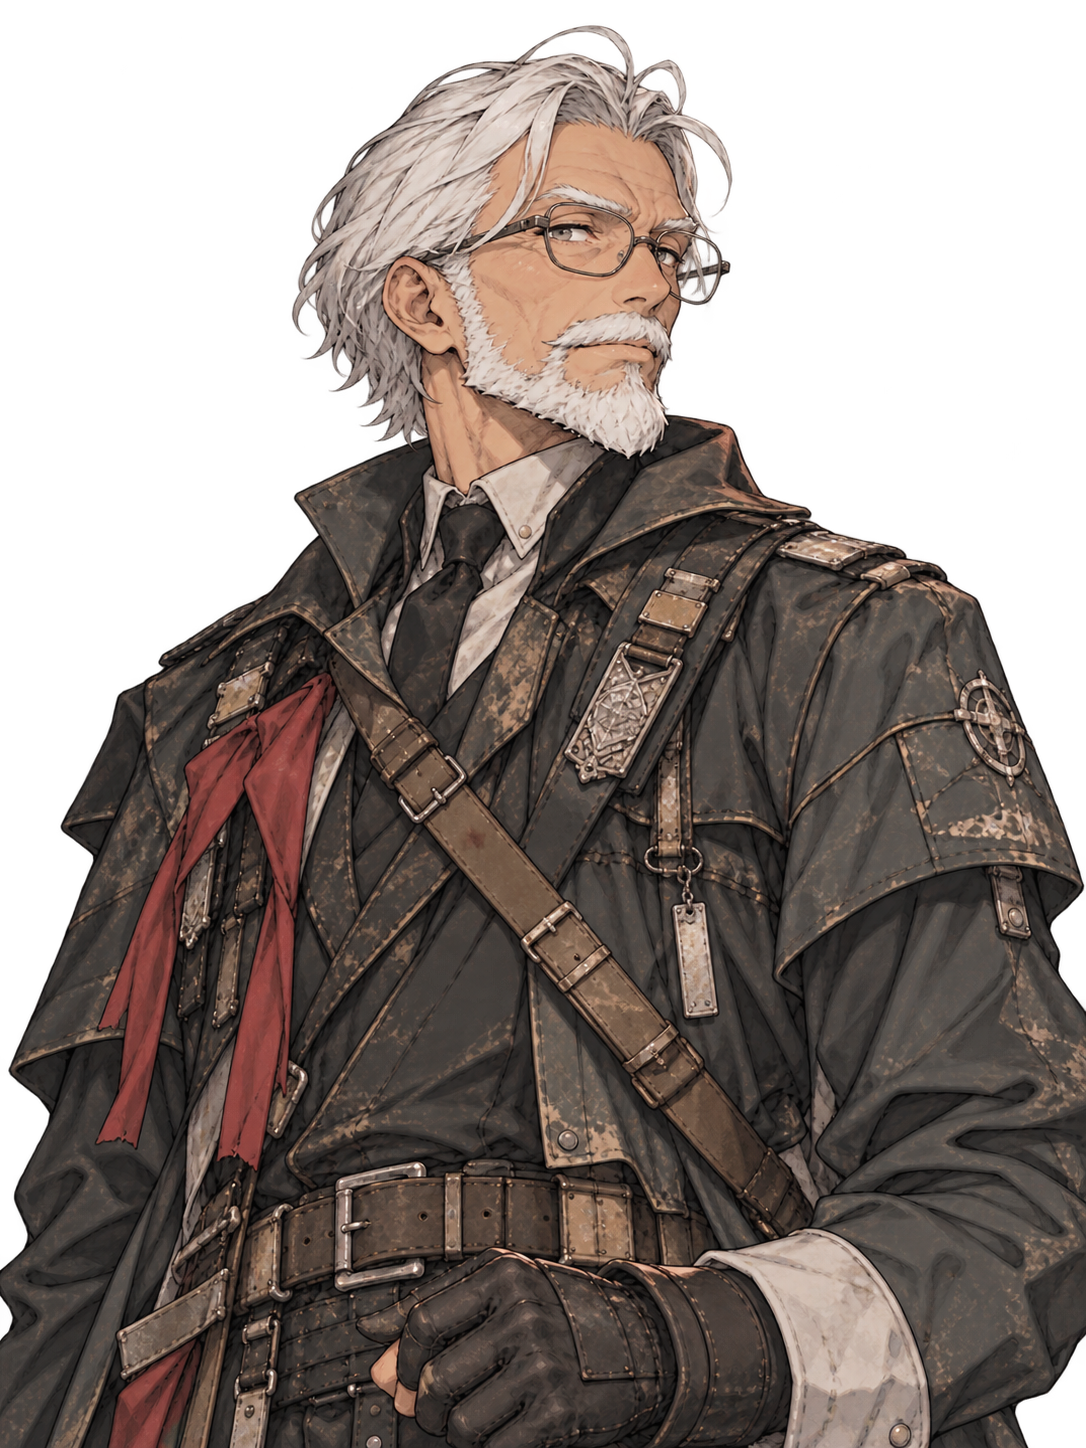
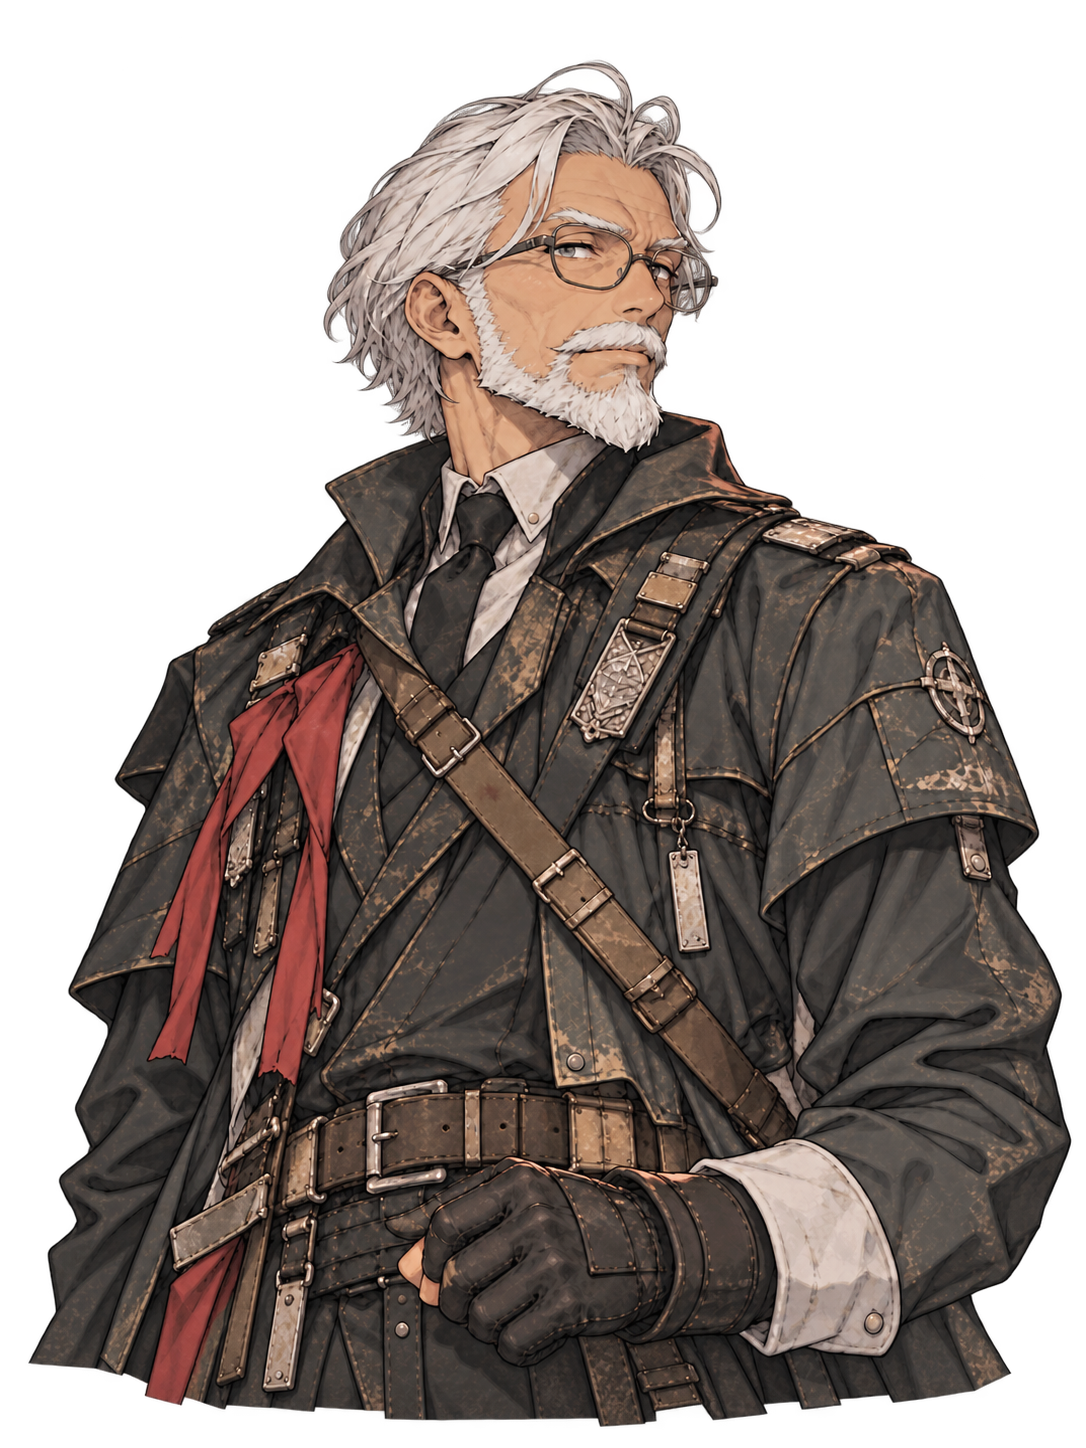
art: replace cropped bust-ups with full-frame PNGs

diff --git a/docs/art/bustup_v0/README.md b/docs/art/bustup_v0/README.md
@@ -22,11 +22,11 @@
 
 | 人物 | ファイル | サイズ | Drive側ファイル名 |
 |---|---|---:|---|
-| ゴウ | [`gou.png`](./gou.png) | 1086×1448 | `F464254E-F66A-4090-91F1-7E32CD08911E.PNG` |
+| ゴウ | [`gou.png`](./gou.png) | 1086×1448 | `C47CD254-8F5B-485D-A88C-E6839B12C1AC.PNG` |
 | ツグミ | [`tsugumi.png`](./tsugumi.png) | 1024×1536 | `A2300A64-4BAB-401A-B969-0B19B86AD20F.PNG` |
-| ナギ | [`nagi.png`](./nagi.png) | 1086×1448 | `8EB7DCF0-C9F1-4B71-BDAB-F831488C38BC.PNG` |
+| ナギ | [`nagi.png`](./nagi.png) | 1086×1448 | `48829A3C-E325-41C8-9795-6464DD564221.PNG` |
 | ヒバナ | [`hibana.png`](./hibana.png) | 1086×1448 | `426076BB-E35B-4E3D-B168-D2ED1D262B7D.PNG` |
-| ゲンゾウ | [`genzou.png`](./genzou.png) | 1086×1448 | `150FA4BD-BC04-4349-98A9-6729678011BA.PNG` |
+| ゲンゾウ | [`genzou.png`](./genzou.png) | 1086×1448 | `1E9E7720-9A24-41C1-A47F-4372CF0142FB.PNG` |
 
 ## 元生成画像
 
